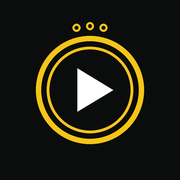
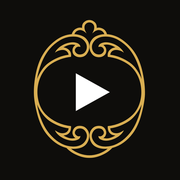
أيقونة جديدة: زخرفة رقم الآية

Changed region(s): [[0.1667, 0.1111, 0.8056, 0.8889], [0.4167, 0.3611, 0.6389, 0.6389], [0.5278, 0.5278, 0.5833, 0.5556]]

diff --git a/web/sw.js b/web/sw.js
@@ -1,5 +1,5 @@
 // خدمة بسيطة لتثبيت الموقع كتطبيق على الماك والجوال
-const CACHE = "qc-v7";
+const CACHE = "qc-v8";
 const CORE = ["./", "index.html", "fonts/hafs.18.woff2", "icon-192.png", "icon-512.png", "manifest.webmanifest"];
 self.addEventListener("install", e => { e.waitUntil(caches.open(CACHE).then(c => c.addAll(CORE)).catch(()=>{})); self.skipWaiting(); });
 self.addEventListener("activate", e => { e.waitUntil(caches.keys().then(ks => Promise.all(ks.filter(k => k !== CACHE).map(k => caches.delete(k))))); self.clients.claim(); });
